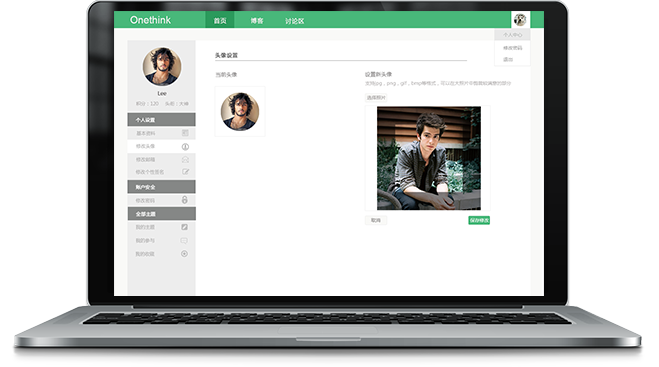
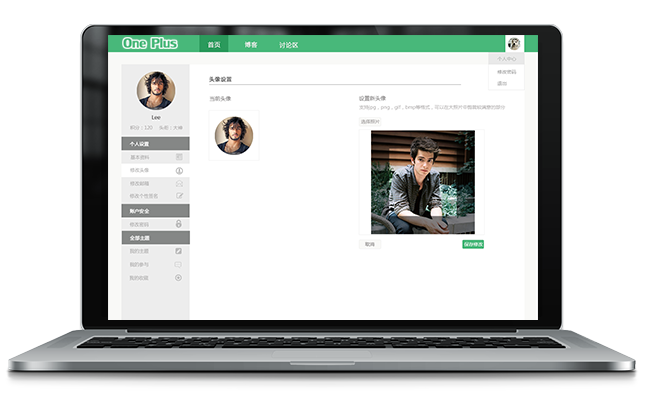
logo大小，首页图片

diff --git a/Application/Common/VIew/Public/header.html b/Application/Common/VIew/Public/header.html
@@ -10,13 +10,13 @@
                 <span class="icon-bar"></span>
             </button>
             <a class="navbar-logo" href="{:U('Home/Index/index')}">
-                <img src="__PUBLIC__/Home/images/oneplus/oneplus-logo.png" style="width: 100px;"/>
+                <img src="__PUBLIC__/Home/images/oneplus/oneplus-logo.png" style="width: 150px;"/>
             </a>
         </div>
 
         <!-- Collect the nav links, forms, and other content for toggling -->
         <div class="collapse navbar-collapse" id="bs-example-navbar-collapse-1">
-            <ul class="nav navbar-nav">
+            <ul class="nav navbar-nav" style="font-size: 18px">
 
                 <!--导航栏菜单项-->
                 <think:nav name="nav">

diff --git a/Application/Home/View/default/Index/index.html b/Application/Home/View/default/Index/index.html
@@ -49,7 +49,7 @@
     <div class="row">
         <div class="col-md-12">
             <p>&nbsp;</p>
-            <h2 class="text-center">什么是OnePlus？</h2>
+            <h1 class="text-center">什么是OnePlus？</h1>
             <p>&nbsp;</p>
         </div>
     </div>
